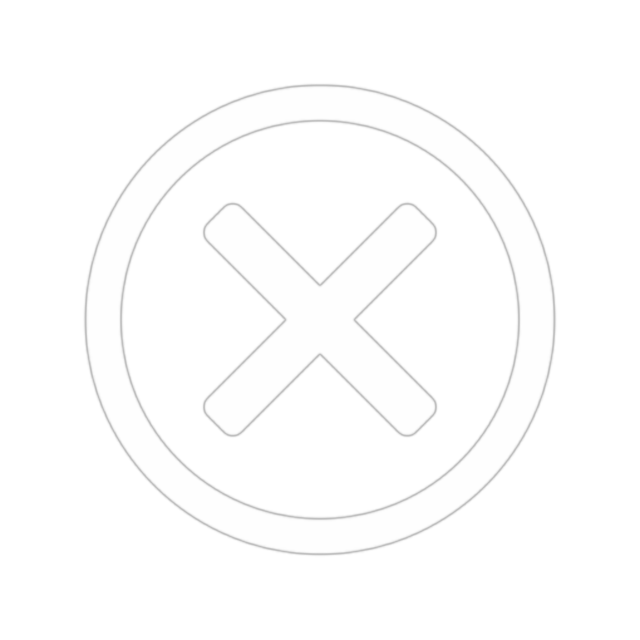
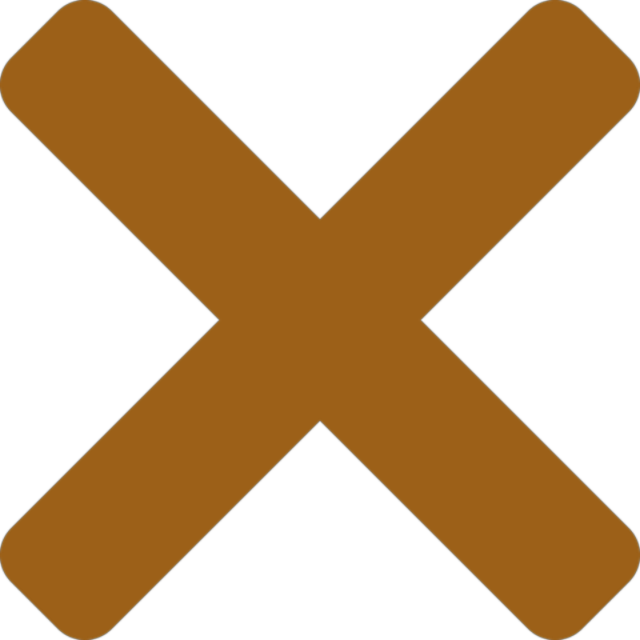
close button works, next prev buttons added

diff --git a/style.css b/style.css
@@ -34,6 +34,7 @@ p {
   color: rgb(228, 243, 177);
   font-size: 2rem;
   font-weight: 200;
+  margin-top: 70px;
 }
 
 footer {
@@ -47,6 +48,7 @@ footer {
   flex-direction: column;
   max-width: 100%;
   flex: 1;
+  align-items: center;
 }
 
 .fotogramAndLogo {
@@ -98,4 +100,53 @@ footer {
 
 .overlay.d_none {
   display: none;
+}
+
+.overlay {
+  position: absolute;
+  top: 50%;
+  left: 50%;
+  transform: translate(-50%, -50%);
+  height: 90vh;
+  width: 30vw;
+  background-color: rgba(0, 0, 0, 0.6);
+  border-radius: 10px;
+  display: flex;
+  justify-content: center;
+  align-items: center;
+  box-sizing: border-box;
+}
+
+#overlayImage {
+  max-width: 85%;
+  max-height: 85%;
+  border-radius: 8px;
+  margin-bottom: 40px;
+}
+
+.closeButton {
+  position: absolute;
+  top: 15px;
+  right: 15px;
+  height: 20px;
+  width: 20px;
+  cursor: pointer;
+}
+
+.nextButton {
+  position: absolute;
+  bottom: 20px;
+  right: 20px;
+  height: 30px;
+  width: auto;
+  cursor: pointer;
+}
+
+.prevButton {
+  position: absolute;
+  bottom: 20px;
+  left: 20px;
+  height: 30px;
+  width: auto;
+  cursor: pointer;
 }

diff --git a/script.js b/script.js
@@ -17,6 +17,25 @@ function renderImages() {
   let imageContainer = document.getElementById("imageContainer");
   imageContainer.innerHTML = "";
   for (let i = 0; i < images.length; i++) {
-    imageContainer.innerHTML += `<img src="${images[i]}" alt="">`;
+    imageContainer.innerHTML += `<img src="${images[i]}" alt="Tea Cup">`;
   }
 }
+
+let imageContainer = document.getElementById("imageContainer");
+let overlay = document.getElementById("overlay");
+let overlayImage = document.getElementById("overlayImage");
+
+function showOverlay(event) {
+  overlayImage.src = event.target.src;
+  overlay.classList.remove("d_none");
+}
+
+function removeOverlay() {
+  overlay.classList.add("d_none");
+}
+
+imageContainer.addEventListener("click", showOverlay);
+
+function nextImage() {}
+
+function prevImage() {}

diff --git a/index.html b/index.html
@@ -24,7 +24,30 @@
     </header>
 
     <main class="mainContainer">
+      <p>Let the steam guide your dream</p>
+
       <div id="imageContainer"></div>
+      <div id="overlay" class="overlay d_none">
+        <img
+          class="closeButton"
+          src="./img/close-button.png"
+          alt="Schließen"
+          onclick="removeOverlay()"
+        />
+        <img
+          class="nextButton"
+          src="./img/next-button.png"
+          alt="Nächstes Bild"
+          onclick="nextImage()"
+        />
+        <img
+          class="prevButton"
+          src="./img/prev-button.png"
+          alt="Vorheriges Bild"
+          onclick="prevImage()"
+        />
+        <img id="overlayImage" src="" alt="" />
+      </div>
     </main>
 
     <footer></footer>
